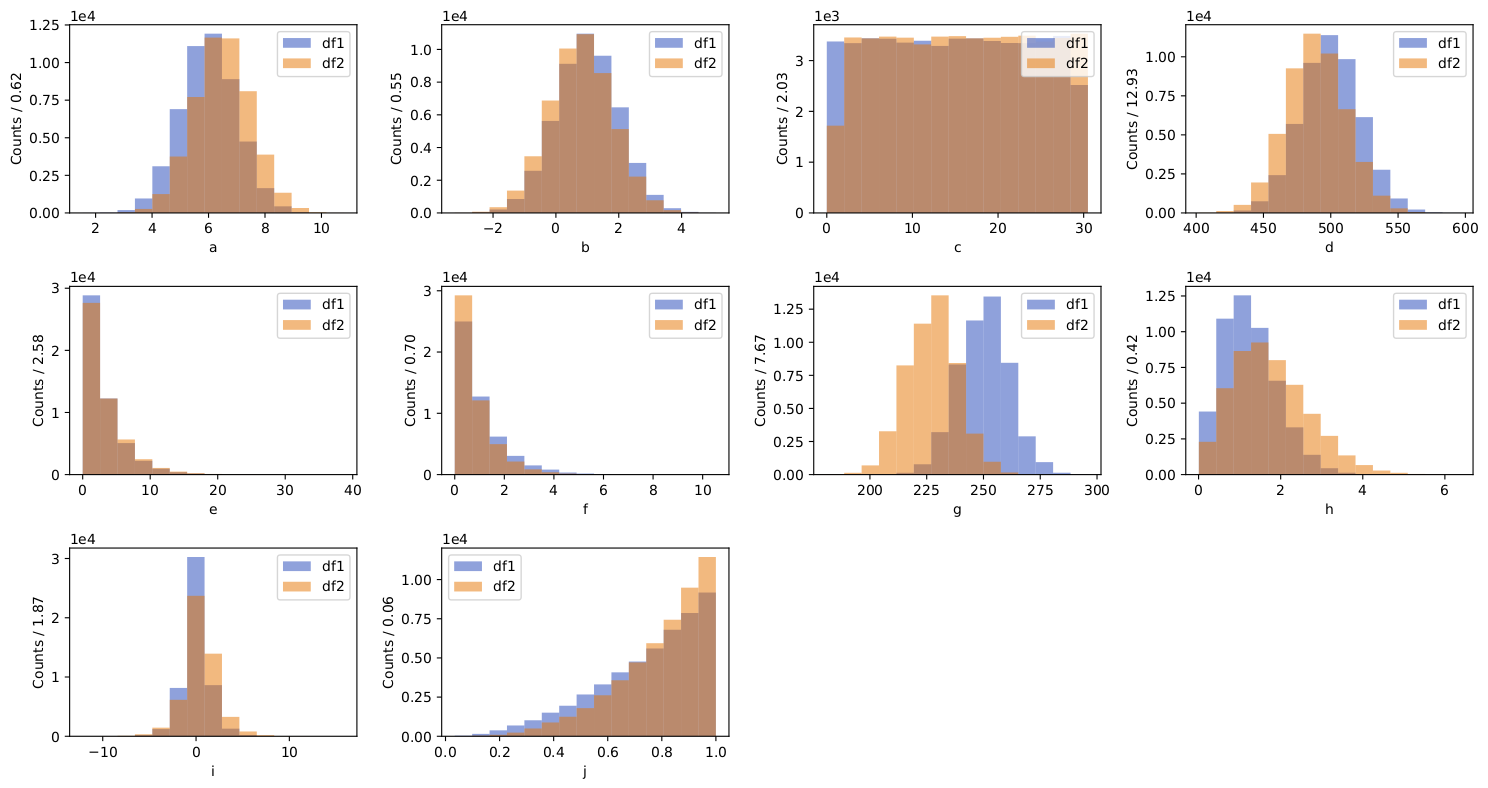
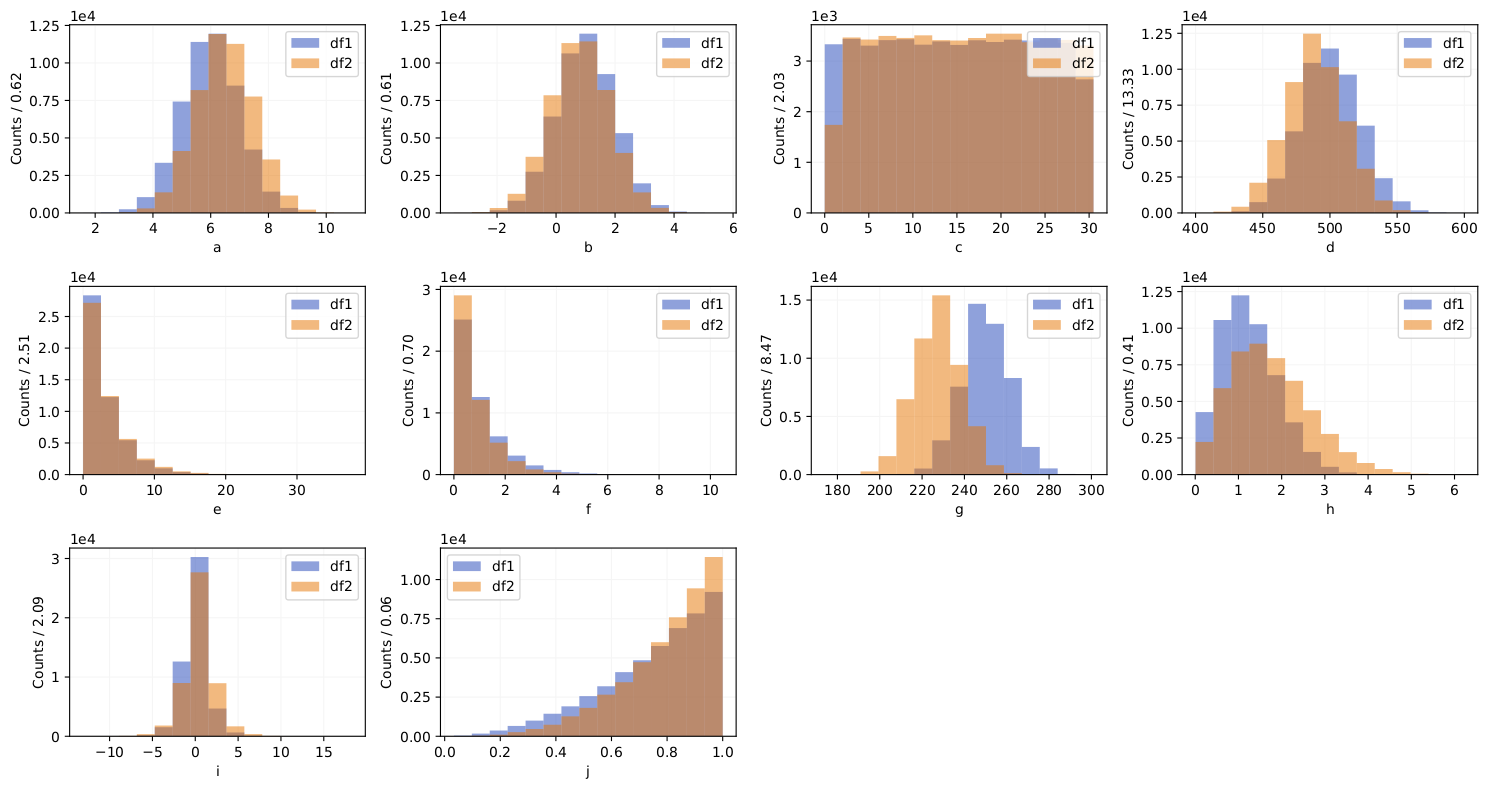
add a comparison of hyperparameters

diff --git a/optimized_bdt/compare_hyper_opt.py b/optimized_bdt/compare_hyper_opt.py
@@ -1,0 +1,103 @@
+#############################
+## author: G. Räuber, 2024 ##
+#############################
+
+import argparse
+import json
+import matplotlib.pyplot as plt
+import numpy as np
+
+parser = argparse.ArgumentParser()
+parser.add_argument('-f', '--filenames', nargs='+',
+                    default=['hyperparams_random',
+                             'hyperparams_bayesian',
+                             'hyperparams_optuna'],
+                    type=list, help='Name of input files')
+parser.add_argument('-o', '--outname', default='compare_hyperparams', type=str,
+                    help='Name of onput files')
+args = parser.parse_args()
+
+
+# Collect the inputs
+def dictfilt(x, y):
+    return {i: x[i] for i in x if i in set(y)}
+
+
+dict_input = {}
+for na in args.filenames:
+    with open(f'{na}.json') as json_file:
+        dict_input[na] = dictfilt(json.load(json_file),
+                                  ('best_score', 'best_estimate'))
+        dict_keys = list(dict_input[na]['best_estimate'].keys())
+        for ke in dict_keys:
+            dict_input[na][ke] = dict_input[na]['best_estimate'][ke]
+        dict_input[na].pop('best_estimate', None)
+
+# Extract all unique parameter names
+parameters = list(dict_input['hyperparams_random'].keys())
+
+# Number of parameters
+num_params = len(parameters)
+
+# Define the layout: three columns, calculate the number of rows needed
+ncols = 3
+nrows = (num_params + 1) // ncols
+
+# Create subplots
+fig, axes = plt.subplots(nrows=nrows, ncols=ncols, figsize=(15, 8))
+
+# Flatten the axes array for easy iteration
+axes = axes.flatten()
+
+# Loop over each parameter and create a subplot
+for i, param in enumerate(parameters):
+    random_val = dict_input[args.filenames[0]].get(param, 0)
+    bayesian_val = dict_input[args.filenames[1]].get(param, 0)
+    optuna_val = dict_input[args.filenames[2]].get(param, 0)
+
+    # Bar positions for this subplot
+    bar_positions = np.arange(3)
+    bar_values = [random_val, bayesian_val, optuna_val]
+
+    # Plotting the bars horizontally
+    bars = axes[i].barh(bar_positions, bar_values,
+                        color=['#2145b882', '#e67500a3', '#8abd66c2'])
+
+    # Set y-ticks and labels
+    axes[i].set_yticks(bar_positions)
+    axes[i].set_yticklabels(['Random', 'Bayesian', 'Optuna'])
+
+    # Set title and labels
+    axes[i].set_xlabel('Value')
+    axes[i].set_title(f'{param}', fontsize=15)
+
+    # Set grid
+    axes[i].grid(True, color='whitesmoke')
+    axes[i].set_axisbelow(True)
+
+    # Annotate the bars with their values
+    for bar, value in zip(bars, bar_values):
+        width = bar.get_width()
+        # If the value is large compared to others
+        if width > max(bar_values) * 0.8:
+            axes[i].text(width - 0.02 * max(bar_values),
+                         bar.get_y() + bar.get_height() / 2,
+                         f'{value:.1e}', va='center', ha='right',
+                         fontsize=12, color='white')
+        # If the value is small compared to others
+        else:
+            axes[i].text(width + 0.02 * max(bar_values),
+                         bar.get_y() + bar.get_height() / 2,
+                         f'{value:.1e}', va='center', ha='left',
+                         fontsize=12, color='black')
+
+# Turn off any empty subplots if the number of parameters is not
+# a multiple of ncols
+for j in range(i+1, len(axes)):
+    axes[j].axis('off')
+
+# Adjust layout to prevent overlap
+plt.tight_layout()
+
+# Save plot
+plt.savefig(f"{args.outname}.pdf", bbox_inches='tight')

diff --git a/dataset/create_pkl.py b/dataset/create_pkl.py
@@ -53,8 +53,8 @@ data_2 = {
     'd': np.random.poisson(lam=489.0, size=num_rows),
     'e': np.random.exponential(scale=3.2, size=num_rows),
     'f': np.random.exponential(scale=0.8, size=num_rows),
-    #'g': np.random.binomial(505, 0.49, size=num_rows),
-    #'g': np.random.binomial(505, 0.47, size=num_rows),
+    # 'g': np.random.binomial(505, 0.49, size=num_rows),
+    # 'g': np.random.binomial(505, 0.47, size=num_rows),
     'g': np.random.binomial(505, 0.45, size=num_rows),
     'h': np.random.rayleigh(scale=1.4, size=num_rows),
     'i': np.random.laplace(loc=0.5, scale=1.3, size=num_rows),
@@ -80,6 +80,10 @@ for i, column in enumerate(df_2.columns):
     axes[i].set_ylabel(f'Counts / {(high-low)/nbbins:<0.2f}')
     axes[i].ticklabel_format(style='sci', axis='y', scilimits=(0, 0))
     axes[i].legend()
+
+    # Set grid
+    axes[i].grid(True, color='whitesmoke')
+    axes[i].set_axisbelow(True)
 
 for i in range(10, 12):
     axes[i].axis('off')

diff --git a/readme.md b/readme.md
@@ -95,7 +95,6 @@ command has to be executed:
 python ranking.py -f filename -j jsonname -o outputname -m method
 ```
 
-
 ![Basic ranking](optimized_bdt/figures/rank_basic.png) 
 ![Basic ranking](optimized_bdt/figures/rank_advanced.png) 
 ![Basic ranking](optimized_bdt/figures/rank_rfe.png) 
@@ -125,3 +124,4 @@ also useful to compute the correlation for the whole dataset
 	*  a method provided by the Optuna package ( *optuna* )
 		* Run `pip install optuna` to have access to this method
 
+![Basic ranking](optimized_bdt/figures/compare_hyperparams.png) 
